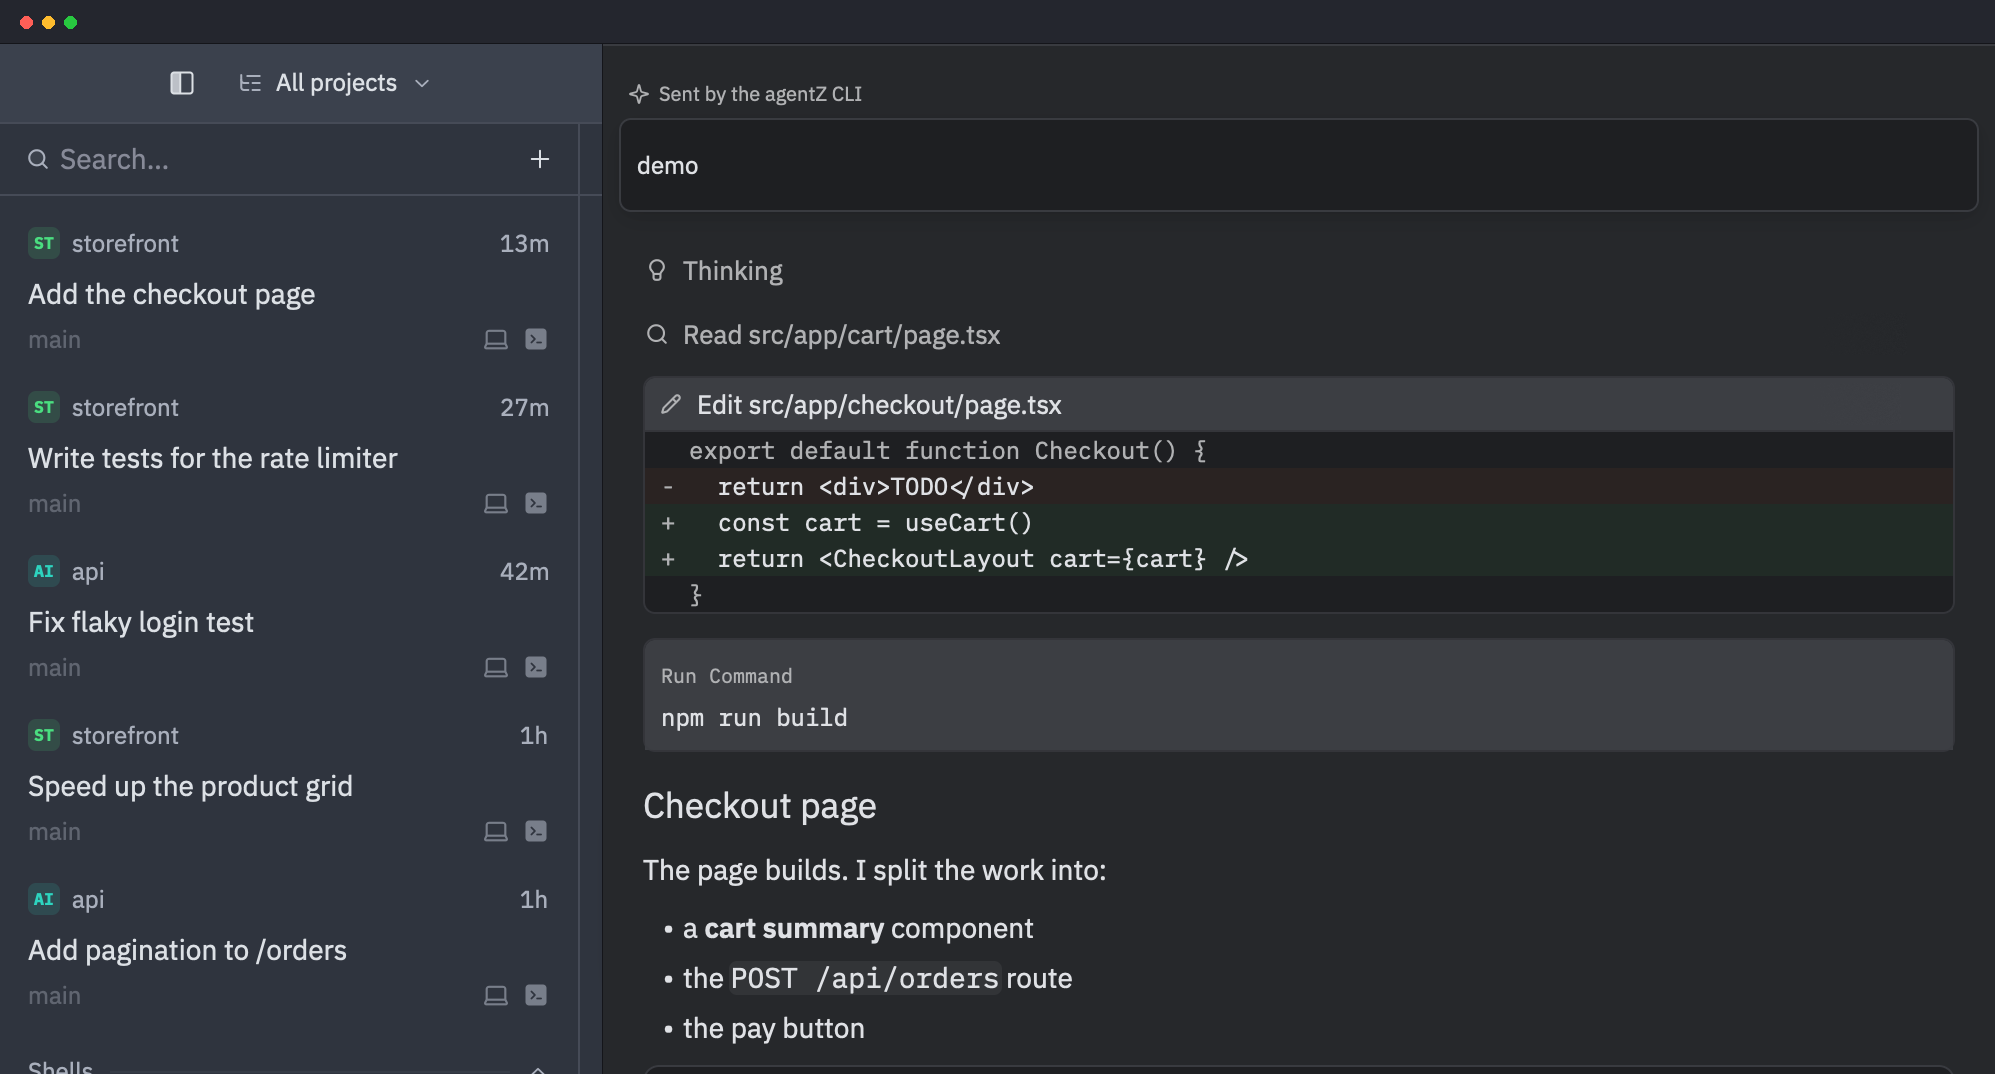
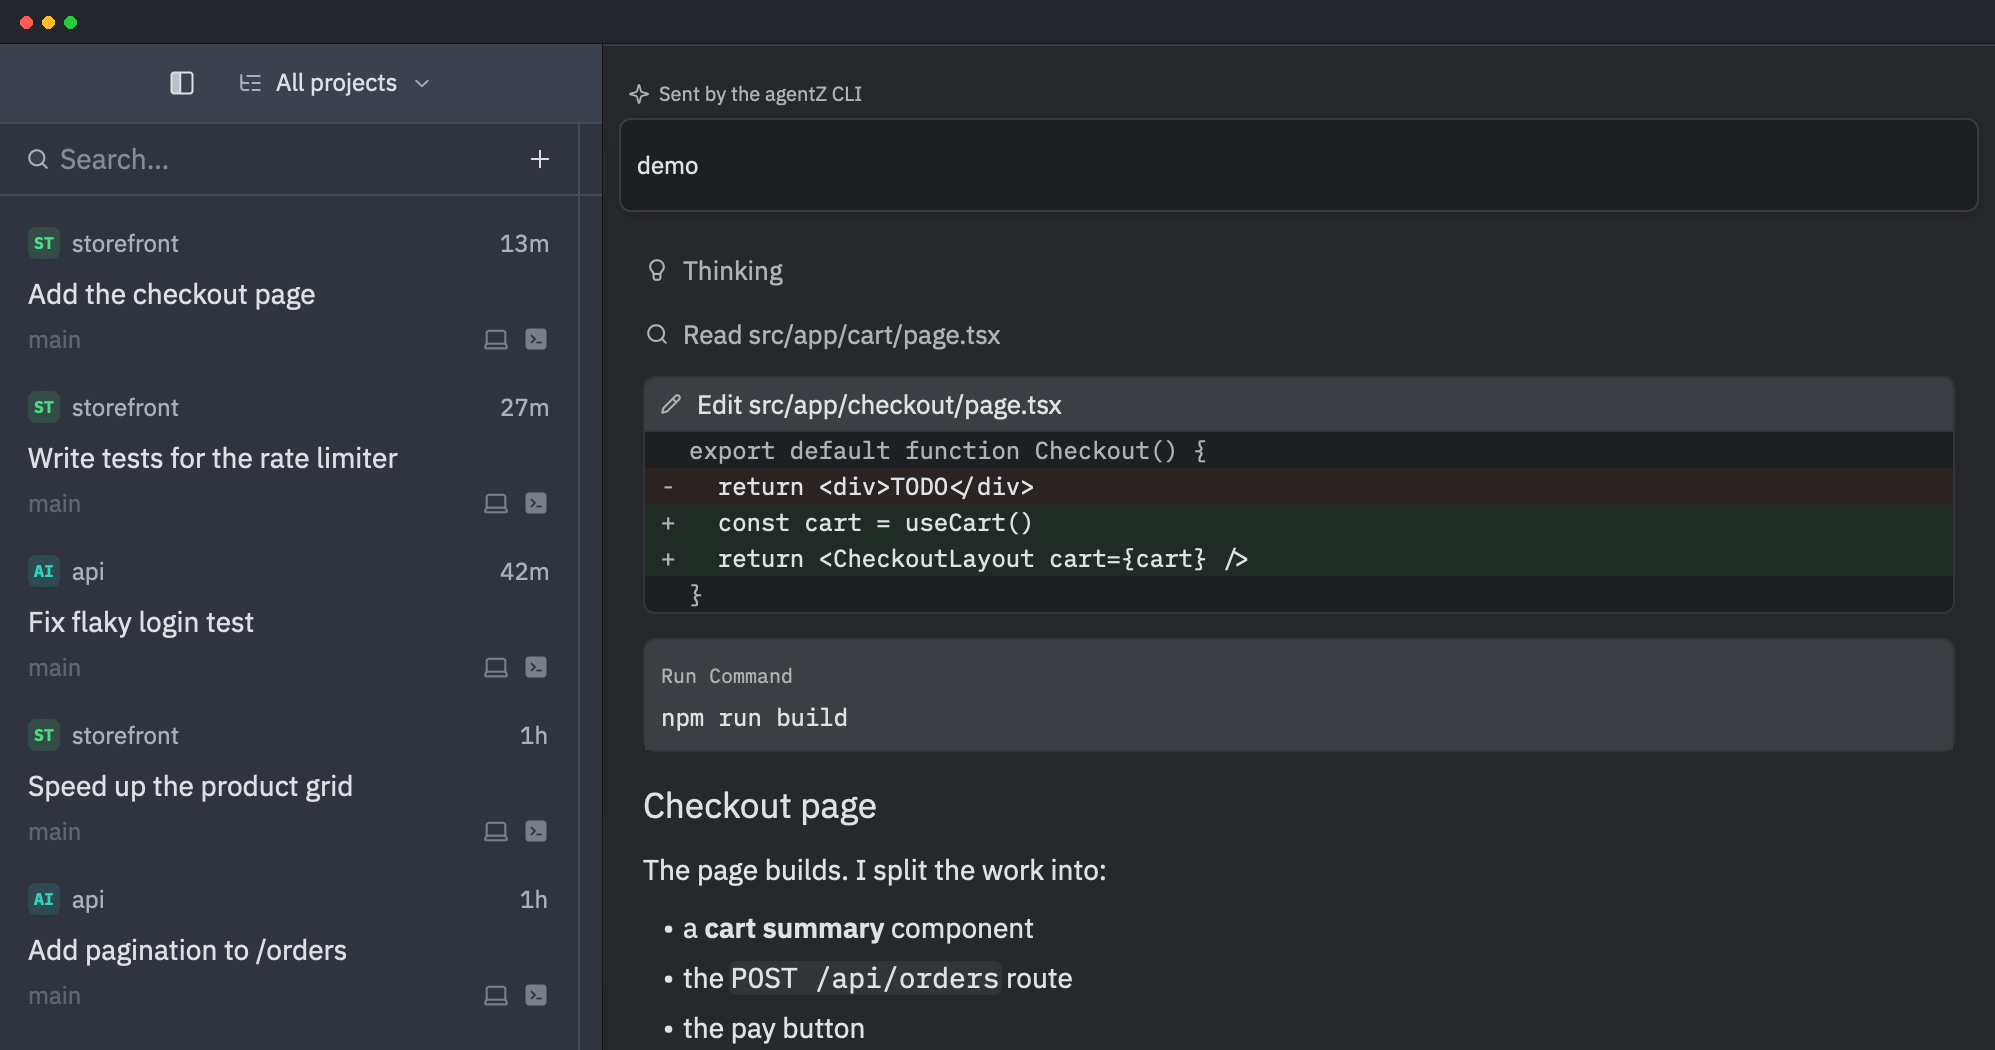
Make the website plain, with the install command first
The first page had a gradient, a glow, a big icon and cards, and read as a
template. It's now a narrow neutral column like bun's or zed's: one headline,
the curl command with a copy button (it wraps at its slashes on a phone
instead of scrolling), a line saying what it installs on each system, the
screenshot and plain-text features.

The screenshot is cropped above the half-visible Shells row it ended on.

diff --git a/site/index.html b/site/index.html
@@ -8,70 +8,126 @@
 <meta property="og:title" content="agentZ">
 <meta property="og:description" content="Coding agents on every machine, in one native Mac app.">
 <meta property="og:image" content="https://ahrorbeksoft.github.io/agentZ/screenshot.png">
-<meta name="theme-color" content="#11131c">
+<meta name="theme-color" content="#0a0a0a">
 <link rel="icon" href="icon.svg" type="image/svg+xml">
 <link rel="apple-touch-icon" href="apple-touch-icon.png">
 <style>
   :root {
-    --background: #0d0f16;
-    --surface: #161925;
-    --border: #262a3b;
-    --text: #e6e8f0;
-    --muted: #9aa0b4;
-    --accent: #8fb8fd;
-    --green: #4ade80;
+    --background: #0a0a0a;
+    --surface: #141414;
+    --border: #262626;
+    --border-strong: #3a3a3a;
+    --text: #ededed;
+    --muted: #a3a3a3;
+    --faint: #737373;
+    --sans: -apple-system, BlinkMacSystemFont, "Segoe UI", Helvetica, Arial, sans-serif;
+    --mono: ui-monospace, "SF Mono", SFMono-Regular, Menlo, Consolas, monospace;
     color-scheme: dark;
   }
   * { box-sizing: border-box; }
   body {
     margin: 0;
-    background: radial-gradient(1200px 600px at 50% -200px, #1e2340 0%, var(--background) 70%);
+    background: var(--background);
     color: var(--text);
-    font: 16px/1.6 -apple-system, BlinkMacSystemFont, "Segoe UI", Inter, sans-serif;
+    font: 16px/1.6 var(--sans);
+    -webkit-font-smoothing: antialiased;
   }
-  a { color: var(--accent); text-decoration: none; }
-  a:hover { text-decoration: underline; }
-  main { max-width: 1040px; margin: 0 auto; padding: 0 24px; }
-  nav { display: flex; justify-content: space-between; align-items: center; padding: 20px 0; }
-  nav .brand { display: flex; align-items: center; gap: 10px; font-weight: 600; color: var(--text); }
-  nav .brand img { width: 32px; height: 32px; }
-  nav .links { display: flex; gap: 20px; font-size: 15px; }
-  header { text-align: center; padding: 56px 0 40px; }
-  header img { width: 128px; height: 128px; }
-  h1 { font-size: clamp(34px, 6vw, 52px); line-height: 1.1; margin: 16px 0 12px; letter-spacing: -0.02em; }
-  .lead { color: var(--muted); font-size: 19px; max-width: 640px; margin: 0 auto 32px; }
+  a { color: inherit; }
+  .page { padding: 0 24px; }
+  nav, header, .features, footer { max-width: 760px; margin-left: auto; margin-right: auto; }
+
+  nav { display: flex; align-items: center; justify-content: space-between; height: 72px; }
+  .brand { display: flex; align-items: center; gap: 10px; font-weight: 600; font-size: 15px; text-decoration: none; }
+  .brand img { width: 24px; height: 24px; }
+  nav .links { display: flex; gap: 24px; font-size: 14px; }
+  nav .links a { color: var(--muted); text-decoration: none; }
+  nav .links a:hover { color: var(--text); }
+
+  header { padding: 80px 0 0; }
+  h1 {
+    margin: 0 0 16px;
+    font-size: clamp(32px, 6vw, 44px);
+    font-weight: 600;
+    line-height: 1.12;
+    letter-spacing: -0.025em;
+    text-wrap: balance;
+  }
+  .lead { margin: 0 0 40px; max-width: 620px; color: var(--muted); font-size: 18px; text-wrap: pretty; }
+
   .install {
-    display: inline-flex; align-items: center; gap: 12px; max-width: 100%;
-    background: var(--surface); border: 1px solid var(--border); border-radius: 12px;
-    padding: 10px 10px 10px 18px; font: 15px/1.4 ui-monospace, "SF Mono", Menlo, monospace;
+    display: flex;
+    align-items: flex-start;
+    gap: 16px;
+    padding: 14px 14px 14px 18px;
+    background: var(--surface);
+    border: 1px solid var(--border);
+    border-radius: 10px;
   }
-  .install code { overflow-x: auto; white-space: nowrap; }
-  .install code::before { content: "$ "; color: var(--muted); }
-  button {
-    flex: none; border: 1px solid var(--border); border-radius: 8px; background: #20243a;
-    color: var(--text); font: 600 13px/1 -apple-system, BlinkMacSystemFont, sans-serif;
-    padding: 9px 12px; cursor: pointer;
+  .install code {
+    flex: 1;
+    min-width: 0;
+    padding: 3px 0;
+    font: 14.5px/1.6 var(--mono);
+    overflow-wrap: anywhere;
   }
-  button:hover { background: #2a2f4b; }
-  .note { color: var(--muted); font-size: 14px; margin-top: 14px; }
-  .shot { margin: 48px auto 0; border-radius: 12px; overflow: hidden; border: 1px solid var(--border);
-    box-shadow: 0 30px 80px rgba(0, 0, 0, 0.55); }
-  .shot img { display: block; width: 100%; height: auto; }
-  section { padding: 64px 0 0; }
-  h2 { font-size: 26px; margin: 0 0 20px; letter-spacing: -0.01em; }
-  .features { display: grid; grid-template-columns: repeat(auto-fit, minmax(280px, 1fr)); gap: 16px; }
-  .feature { background: var(--surface); border: 1px solid var(--border); border-radius: 12px; padding: 20px; }
-  .feature h3 { margin: 0 0 6px; font-size: 17px; }
-  .feature p { margin: 0; color: var(--muted); font-size: 15px; }
-  .steps { display: grid; gap: 16px; grid-template-columns: repeat(auto-fit, minmax(300px, 1fr)); margin-top: 16px; }
-  pre { background: var(--surface); border: 1px solid var(--border); border-radius: 10px; padding: 14px 16px;
-    overflow-x: auto; font: 14px/1.5 ui-monospace, "SF Mono", Menlo, monospace; margin: 0; }
-  .steps p { margin: 0; color: var(--muted); }
-  footer { color: var(--muted); font-size: 14px; text-align: center; padding: 64px 0 40px; }
+  .install code::before { content: "$ "; color: var(--faint); user-select: none; }
+  .install button {
+    flex: none;
+    padding: 4px 10px;
+    background: transparent;
+    border: 1px solid var(--border-strong);
+    border-radius: 6px;
+    color: var(--muted);
+    font: 500 13px/1.6 var(--sans);
+    cursor: pointer;
+  }
+  .install button:hover { color: var(--text); border-color: var(--faint); }
+  .note { margin: 14px 0 0; color: var(--faint); font-size: 14px; }
+  .note span { white-space: nowrap; }
+
+  .screenshot {
+    max-width: 960px;
+    margin: 72px auto 0;
+    overflow: hidden;
+    border: 1px solid var(--border);
+    border-radius: 10px;
+  }
+  .screenshot img { display: block; width: 100%; height: auto; }
+
+  .features {
+    display: grid;
+    grid-template-columns: repeat(2, minmax(0, 1fr));
+    gap: 36px 48px;
+    margin: 88px auto 0;
+  }
+  .features h2 { margin: 0 0 4px; font-size: 15px; font-weight: 600; }
+  .features p { margin: 0; color: var(--muted); font-size: 15px; }
+
+  footer {
+    display: flex;
+    flex-wrap: wrap;
+    justify-content: space-between;
+    gap: 8px 24px;
+    margin: 96px auto 0;
+    padding: 24px 0 48px;
+    border-top: 1px solid var(--border);
+    color: var(--faint);
+    font-size: 13px;
+  }
+  footer a { text-decoration: none; }
+  footer a:hover { color: var(--text); }
+
+  @media (max-width: 600px) {
+    header { padding-top: 48px; }
+    .lead { font-size: 17px; }
+    .install code { font-size: 13.5px; }
+    .screenshot { margin-top: 56px; }
+    .features { grid-template-columns: 1fr; gap: 28px; margin-top: 64px; }
+  }
 </style>
 </head>
 <body>
-<main>
+<div class="page">
   <nav>
     <a class="brand" href="./"><img src="icon.svg" alt="">agentZ</a>
     <div class="links">
@@ -81,58 +137,66 @@
   </nav>
 
   <header>
-    <img src="icon.svg" alt="agentZ icon">
-    <h1>Coding agents on every machine,<br>in one Mac app.</h1>
-    <p class="lead">agentZ runs Claude Code, Codex, Gemini, OpenCode and every other
+    <h1>Coding agents on every machine,<br> in one Mac app.</h1>
+    <p class="lead">agentZ runs Claude Agent, Codex, Gemini CLI, OpenCode and every other
       <a href="https://agentclientprotocol.com">ACP</a> agent side by side, across your projects,
       your Mac and your Linux servers, with real terminals next to them.</p>
     <div class="install">
-      <code id="command">curl -fsSL https://ahrorbeksoft.github.io/agentZ/install.sh | sh</code>
+      <code id="command">curl -fsSL https://<wbr>ahrorbeksoft.github.io/<wbr>agentZ/<wbr>install.sh | sh</code>
       <button type="button" id="copy">Copy</button>
     </div>
-    <p class="note">Run it in Terminal on a Mac to install the app, or on a Linux machine to install its server.
-      Run it again to update.</p>
-    <div class="shot"><img src="screenshot.png" alt="agentZ: threads in the sidebar, an agent's turn with an edit and a command" width="1995" height="1074"></div>
+    <p class="note"><span>macOS: installs agentZ.app</span> · <span>Linux: installs agentz-server</span></p>
   </header>
 
-  <section>
-    <h2>What it does</h2>
-    <div class="features">
-      <div class="feature"><h3>Any ACP agent</h3><p>Install agents from the ACP Registry in a click, or add your own command. Log in the way each agent offers.</p></div>
-      <div class="feature"><h3>Threads across projects</h3><p>Every conversation is a thread in the sidebar, with its project, branch and status. Pin, search and archive them.</p></div>
-      <div class="feature"><h3>Your other machines</h3><p>Add a Mac or a Linux server over SSH. agentZ installs its server there and offers each update.</p></div>
-      <div class="feature"><h3>Agents keep running</h3><p>A background server on each machine owns the agents, so quitting the app or losing the connection doesn't stop them.</p></div>
-      <div class="feature"><h3>Worktrees and pastures</h3><p>Give a thread its own git worktree, or an instant copy-on-write copy of the project, and bring the work back.</p></div>
-      <div class="feature"><h3>Real terminals</h3><p>Terminals, split panes and workspaces beside the agents, and agent CLIs that run in a terminal.</p></div>
-    </div>
-  </section>
+  <figure class="screenshot">
+    <img src="screenshot.png" width="1995" height="1050"
+      alt="agentZ: threads from several projects in the sidebar, and an agent's turn with an edit and a command">
+  </figure>
 
-  <section id="install">
-    <h2>Install</h2>
-    <pre>curl -fsSL https://ahrorbeksoft.github.io/agentZ/install.sh | sh</pre>
-    <div class="steps">
-      <p><strong>On a Mac</strong> (Apple silicon or Intel, macOS 10.15.7 or later), it installs agentZ.app
-        in /Applications.</p>
-      <p><strong>On Linux</strong> (x86_64 or arm64), it installs agentz-server, so you can add the machine from
-        the app over SSH. The app also installs it on its own when you add a machine.</p>
+  <section class="features">
+    <div>
+      <h2>Any ACP agent</h2>
+      <p>Install agents from the ACP Registry, or add your own command. Log in the way each agent offers.</p>
     </div>
-    <p class="note">Prefer to download it yourself? Every build is on the
-      <a href="https://github.com/ahrorbeksoft/agentZ/releases/latest">releases page</a>, with SHA256SUMS.
-      The app isn't notarized by Apple, so a copy downloaded with a browser needs
-      <code>xattr -dr com.apple.quarantine /Applications/agentZ.app</code> before it opens.</p>
+    <div>
+      <h2>Threads across projects</h2>
+      <p>Every conversation is a thread in the sidebar, with its project, branch and status.</p>
+    </div>
+    <div>
+      <h2>Your other machines</h2>
+      <p>Add a Mac or a Linux server over SSH. agentZ installs its server there and keeps it updated.</p>
+    </div>
+    <div>
+      <h2>Agents keep running</h2>
+      <p>A background server on each machine owns the agents, so quitting the app or losing the connection doesn't stop them.</p>
+    </div>
+    <div>
+      <h2>Worktrees and pastures</h2>
+      <p>Give a thread its own git worktree, or an instant copy-on-write copy of the project.</p>
+    </div>
+    <div>
+      <h2>Real terminals</h2>
+      <p>Terminals and split panes beside the agents, for the agent CLIs that run in one.</p>
+    </div>
   </section>
 
   <footer>
-    agentZ is free and open source, built on <a href="https://zed.dev">Zed</a>'s GPUI.
-    <a href="https://github.com/ahrorbeksoft/agentZ">Source on GitHub</a>.
+    <span>Free and open source, built on <a href="https://zed.dev">Zed</a>'s GPUI.</span>
+    <a href="https://github.com/ahrorbeksoft/agentZ">github.com/ahrorbeksoft/agentZ</a>
   </footer>
-</main>
+</div>
 <script>
   const button = document.getElementById("copy");
+  const command = document.getElementById("command");
   button.addEventListener("click", async () => {
-    await navigator.clipboard.writeText(document.getElementById("command").textContent);
-    button.textContent = "Copied";
-    setTimeout(() => (button.textContent = "Copy"), 1500);
+    try {
+      await navigator.clipboard.writeText(command.textContent);
+      button.textContent = "Copied";
+      setTimeout(() => (button.textContent = "Copy"), 1500);
+    } catch {
+      // Without clipboard access, select the command so it can be copied by hand.
+      window.getSelection().selectAllChildren(command);
+    }
   });
 </script>
 </body>
